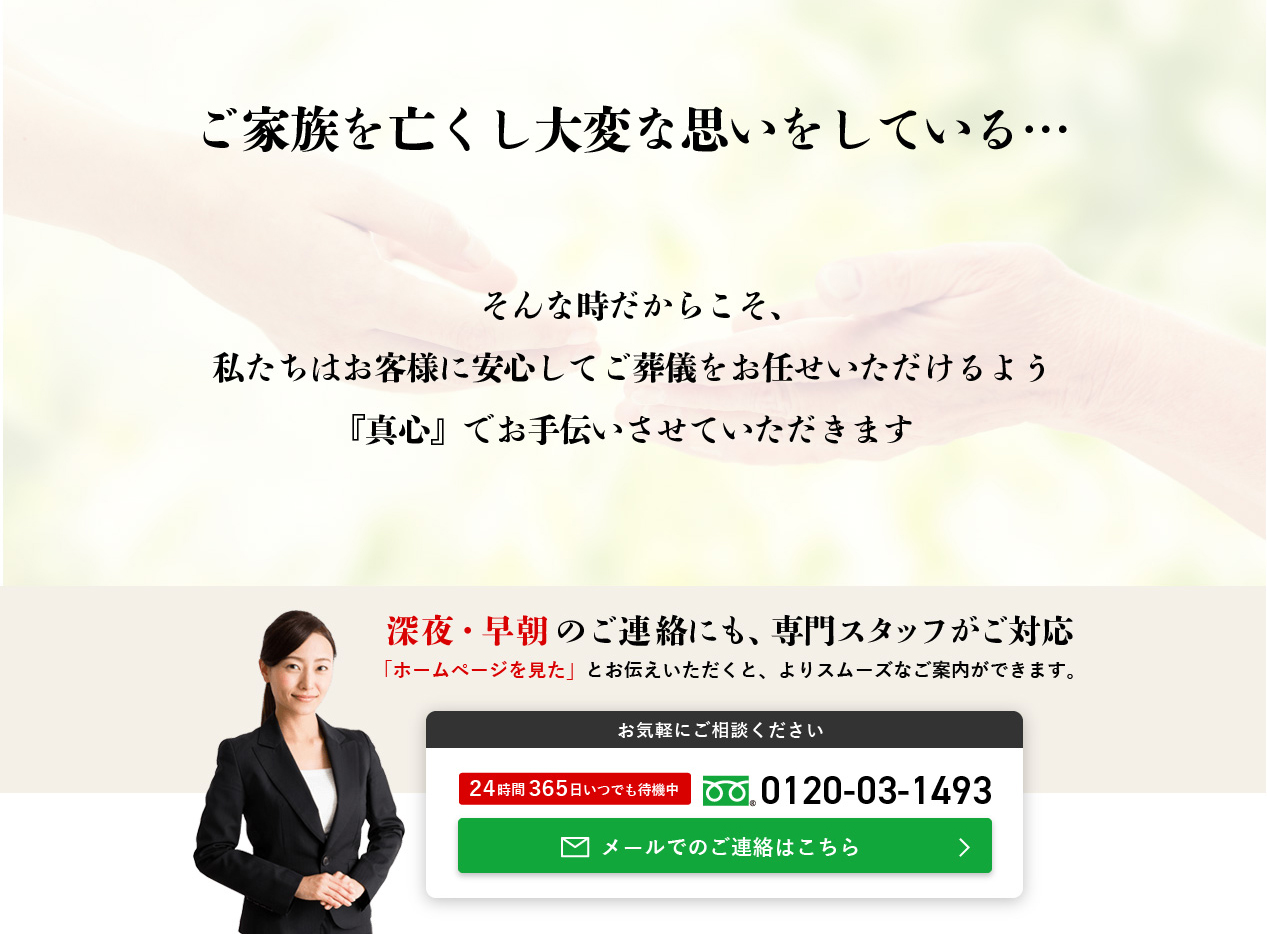
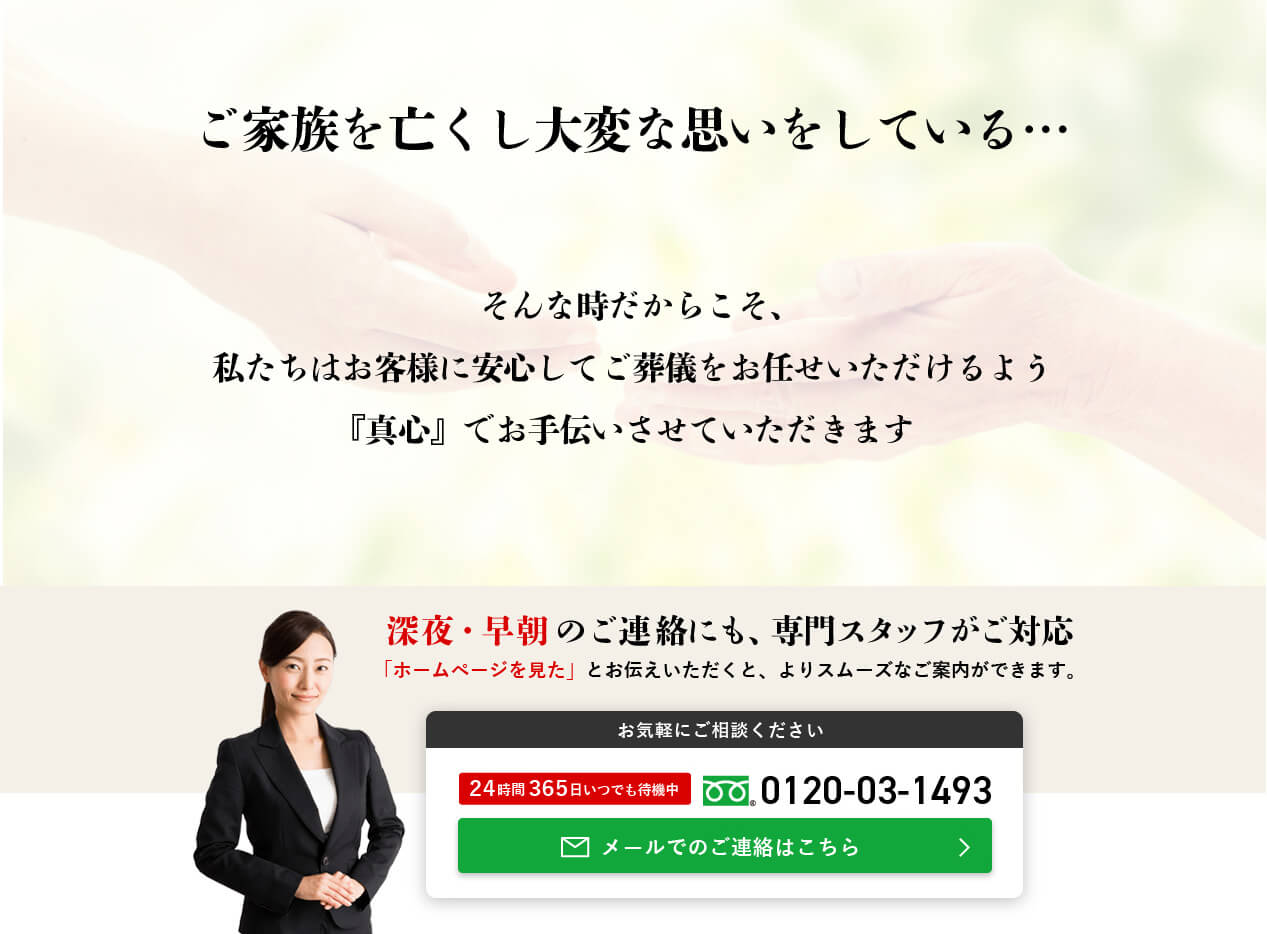
Updated

diff --git a/index.html b/index.html
@@ -14,9 +14,10 @@
       display: block;
       margin: 0;
       padding: 0;
+      width: 100%;
     }
     .main {
-      width: 1267px;
+      max-width: 1267px;
       margin: 0 auto;
     }
   </style>
